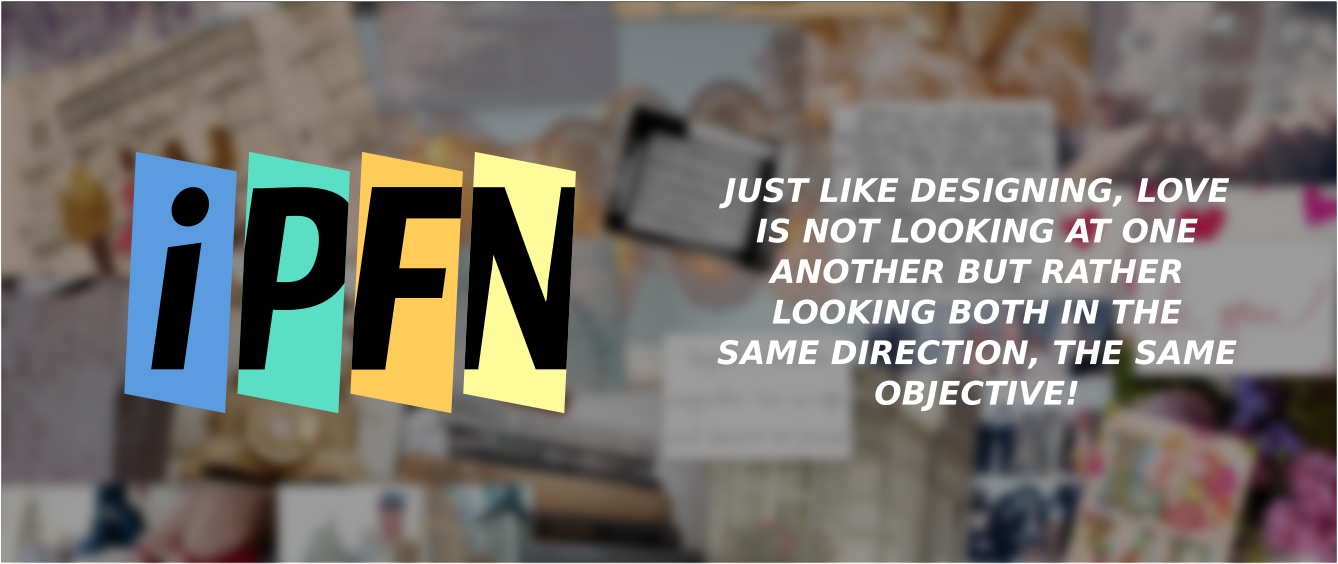
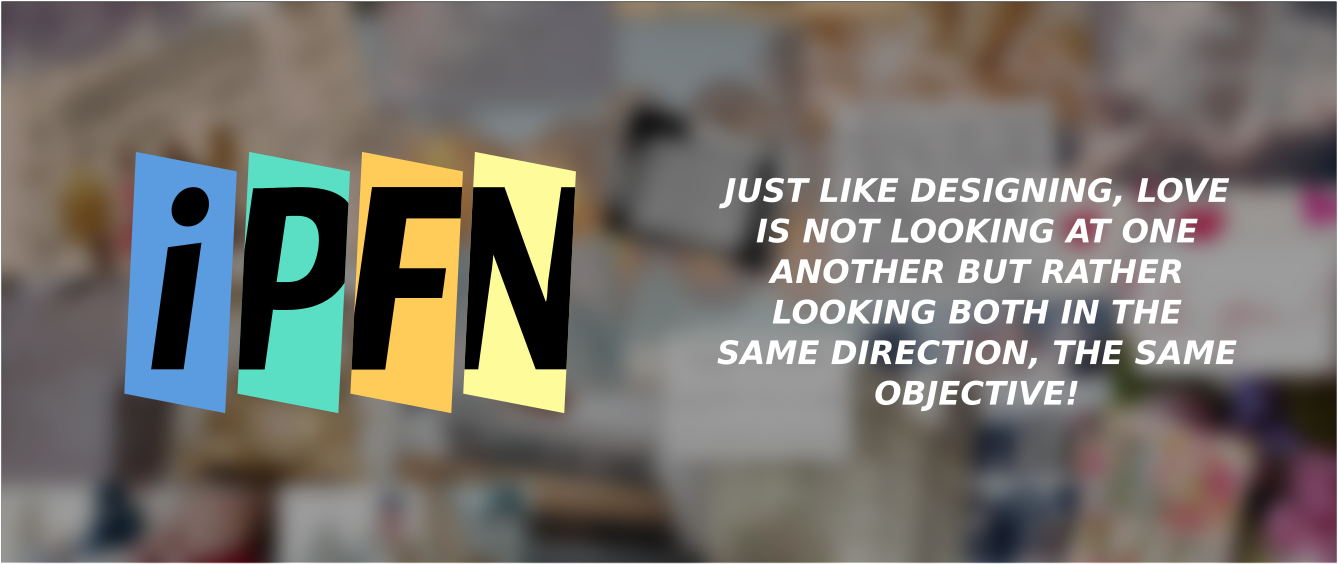
index-design-fixed

diff --git a/style.css b/style.css
@@ -3,21 +3,33 @@ body {
 
 }
 
-#banner-portfolio {
-    width: 100%;
+#banner-cont {
+    background-image: url(img/banner-portfolio-background.png);
+    background-attachment: fixed;
+    background-size: 100%;
+    display: flex;
+      
+    
+}
+
+#banner-portfolio-title {
+    width: 70vw;
+    margin-left: auto;
+    margin-right: auto;
+    padding: 1rem;
 
 }
 
 #nav-bar-cont {
-    background-color: rgb(192, 192, 192);
+    background-color: rgb(255, 255, 255);
     position: relative;
     width: auto;
         
 }
 
 .nav-icon {
-    padding: 1%;
-    width: 22%;
+    padding: 3%;
+    width: 20vw;
     position: relative;
     margin: auto;
     
@@ -30,29 +42,33 @@ the once you may find inside the INDEX*/
 
 
 #nav-icon1:hover{
+    width: 20vw;
     margin: auto;
-    padding: 1%;
+    padding: 3%;
     content: url(img/about-me-2.png);
     
 }
 
 #nav-icon2:hover {
+    width: 20vw;
     margin: auto;
-    padding: 1%;
+    padding: 3%;
     content: url(img/graphic-design2.png);
     
 }
 
 #nav-icon3:hover {
+    width: 20vw;
     margin: auto;
-    padding: 1%;
+    padding: 3%;
     content: url(img/web-design2.png);
     
 }
 
 #nav-icon4:hover {
+    width: 20vw;
     margin: auto;
-    padding: 1%;
+    padding: 3%;
     content: url(img/contact-me2.png);
     
 }

diff --git a/index.html b/index.html
@@ -14,7 +14,7 @@
 <body>
     <main>
         <div id="banner-cont">
-            <img id="banner-portfolio" src="img/banner-portfolio.png" class="responsive">
+            <img id="banner-portfolio-title" src="img/banner-portfolio-title.png" class="">
         </div>
 
         <div id="nav-bar-cont" class="text-center">
